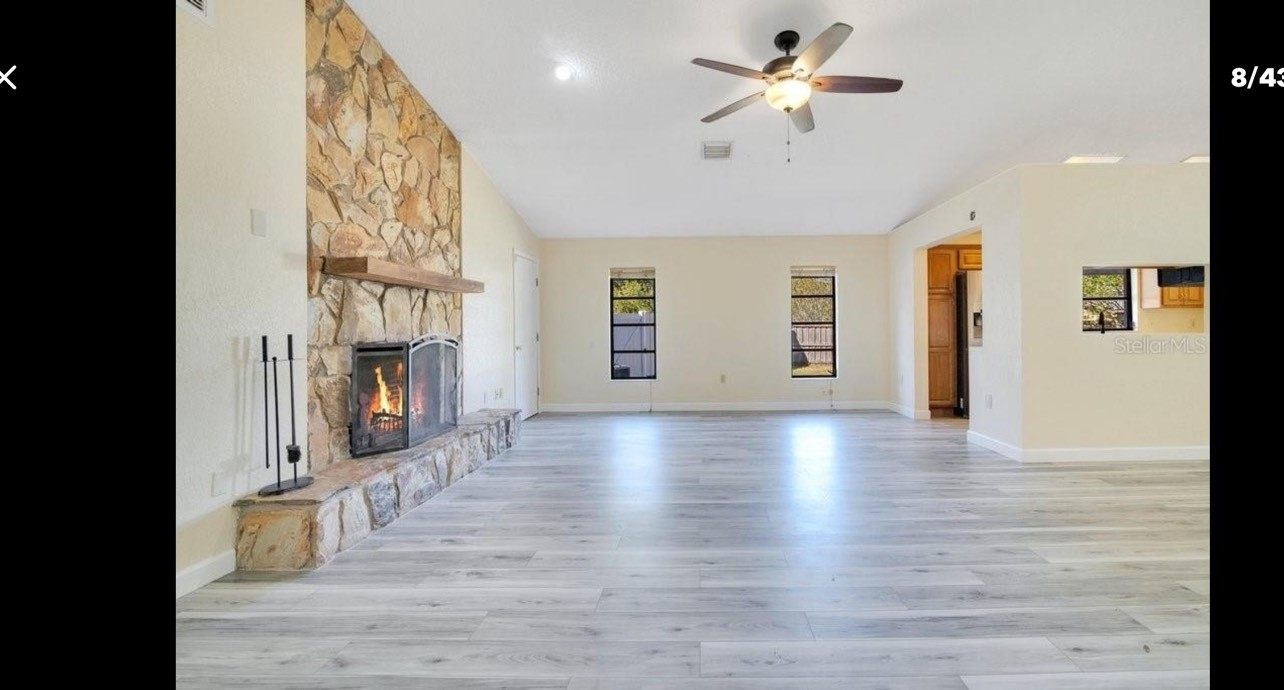
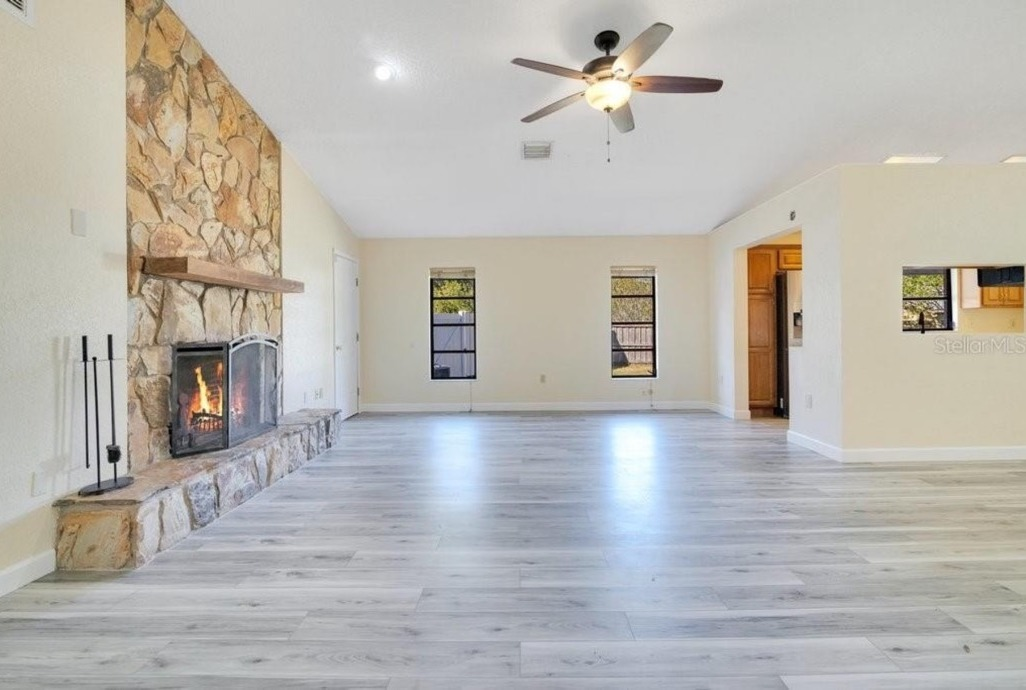
Leesburg slider: trim full black viewer bars from photos

diff --git a/index.html b/index.html
@@ -62,8 +62,8 @@
     .carousel .dots button[aria-current="true"]{background:#333}
     @media (max-width:760px){.carousel{width:100vw}.carousel .frame{border-radius:0;aspect-ratio:4/3}.carousel .nav{width:42px;height:42px;font-size:30px;line-height:38px}}
     @media (prefers-reduced-motion:reduce){.carousel .track{transition:none}}
-    #car-fairway .frame{aspect-ratio:1284/690;max-height:none;background:#f4f1ea}
-    @media (max-width:760px){#car-fairway .frame{aspect-ratio:1284/690}}
+    #car-fairway .frame{aspect-ratio:1026/690;max-height:none;background:#f4f1ea}
+    @media (max-width:760px){#car-fairway .frame{aspect-ratio:1026/690}}
   </style>
 </head>
 <body>
